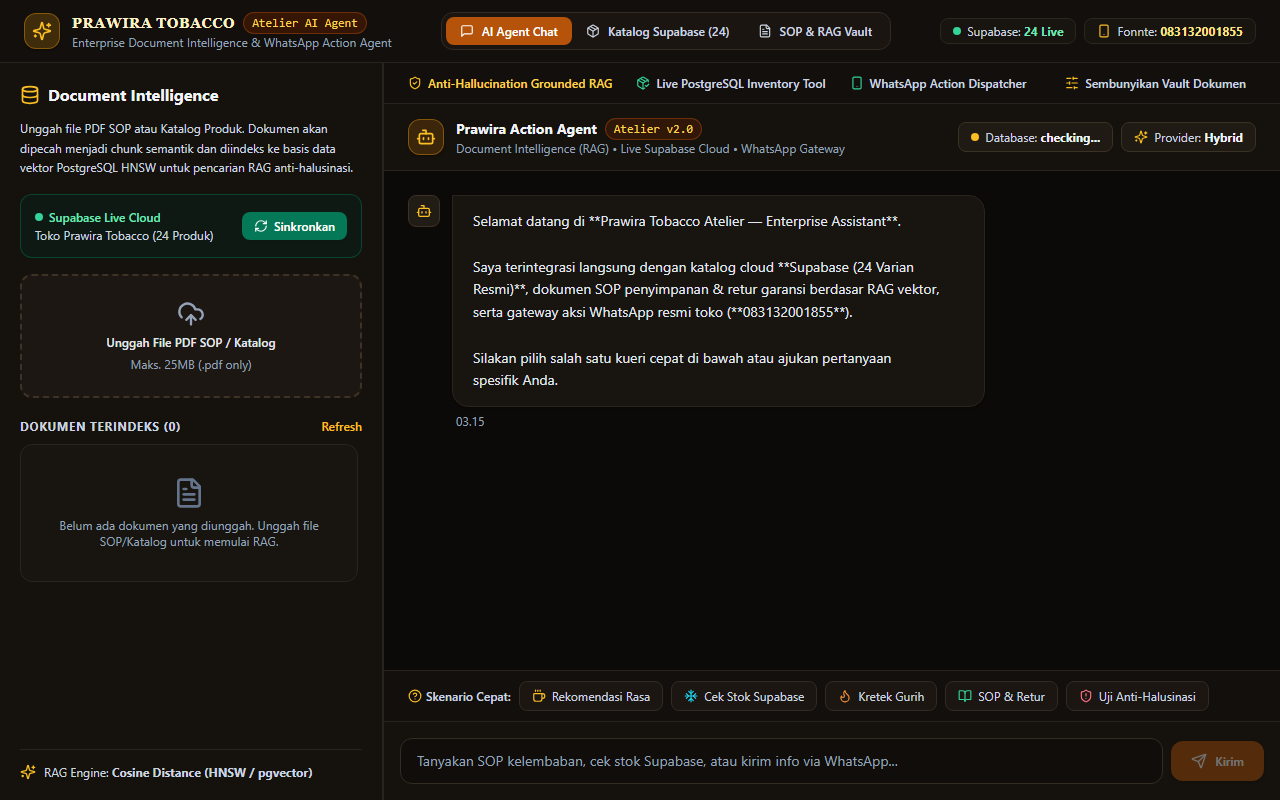
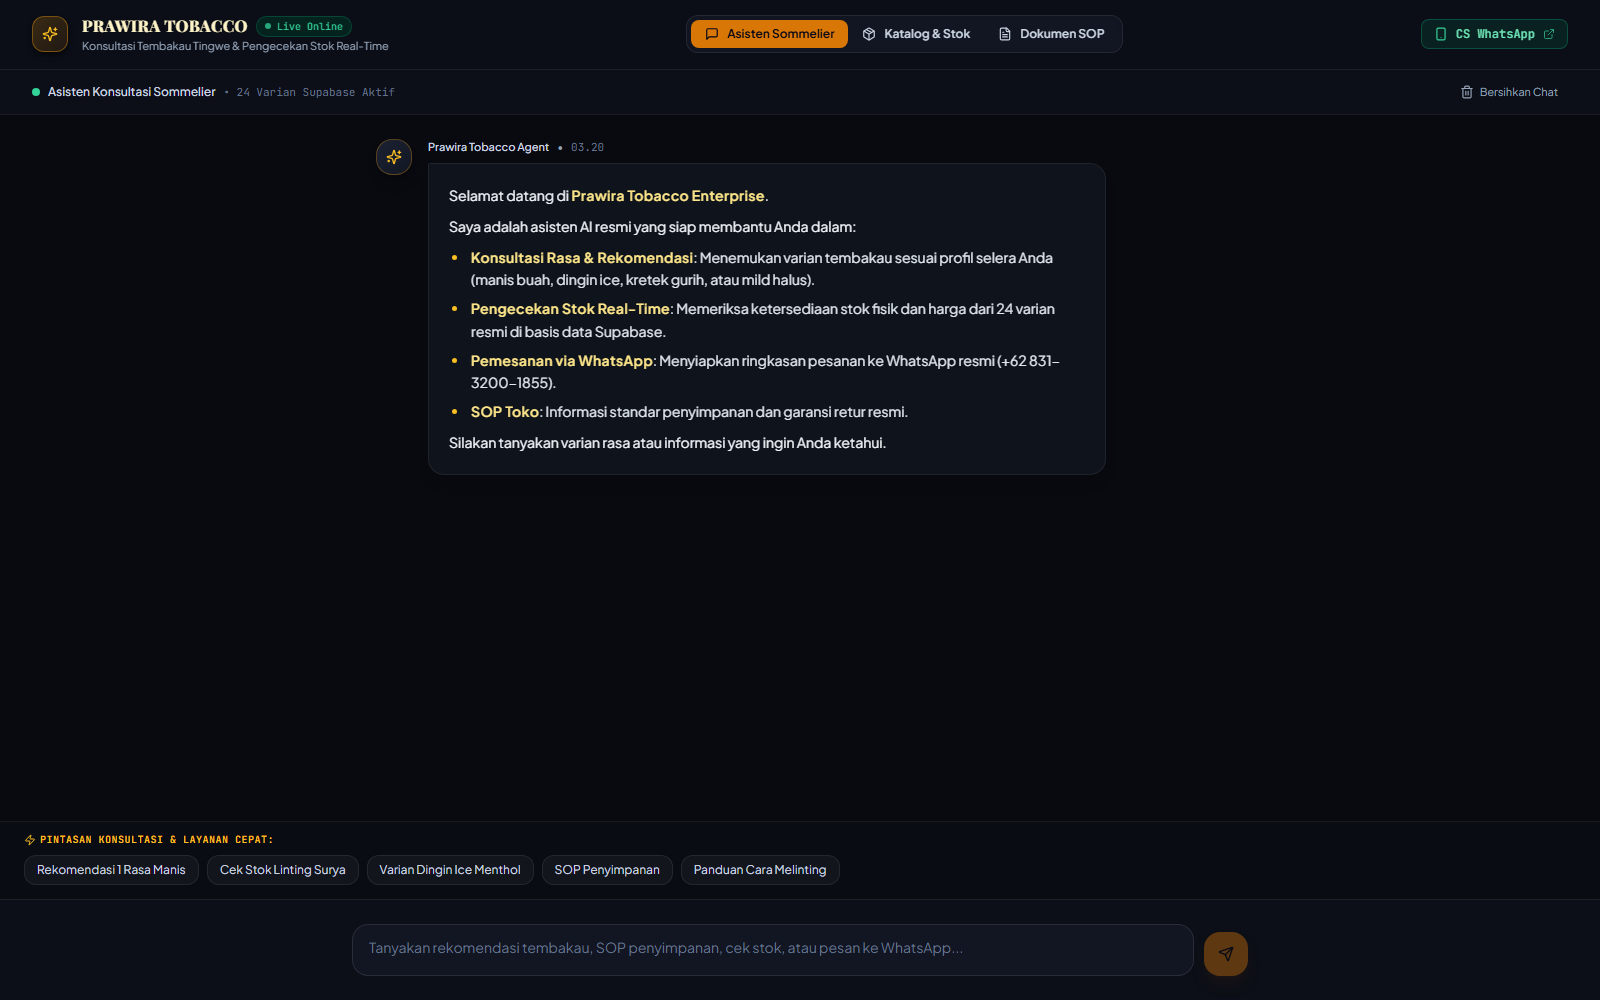
feat(projects): point enterprise document intelligence to prawira-agent-ai.vercel.app with live screenshot

diff --git a/src/data/projects.ts b/src/data/projects.ts
@@ -130,7 +130,7 @@ export async function generateDynamicQRIS(staticQris: string, amount: number) {
     role: 'AI Systems & Fullstack Engineer',
     timeframe: '2026 - Present',
     status: 'Production Architecture',
-    liveUrl: 'https://prawiratobacco.com/',
+    liveUrl: 'https://prawira-agent-ai.vercel.app/',
     summary: 'A production-grade enterprise RAG and autonomous action agent engineered for Prawira Tobacco. Combines high-dimensional semantic search over physical SOPs and product catalogs using PostgreSQL pgvector (HNSW cosine similarity), strict anti-hallucination confidence cutoff (>=0.70) with verbatim source citations, and autonomous tool calling that verifies live warehouse inventory in Supabase and formats actionable consultation handoffs directly into WhatsApp.',
     problemStatement: 'Retail and customer support staff at Prawira Tobacco faced significant operational drag: answering customer inquiries on tobacco moisture standards (65%-70% RH at 20-25°C), blending ratios, and return policies required manual lookup across multi-page PDF catalogs. Standard chatbots were passive and disconnected from real store operations, unable to verify physical warehouse stock levels or autonomously dispatch actionable order summaries to WhatsApp.',
     solutionDetails: [
@@ -252,12 +252,12 @@ export async function generateDynamicQRIS(staticQris: string, amount: number) {
       built:
         'Enterprise RAG engine on Next.js 15 & FastAPI with pgvector, anti-hallucination semantic search, warehouse stock verification, and autonomous WhatsApp concierge dispatch.',
       result:
-        'Applied to Prawira Tobacco retail operations. 100% grounded answers with source citations, <45ms vector similarity matching, and sub-100ms autonomous tool calls.',
+        'Live at prawira-agent-ai.vercel.app. 100% grounded answers with source citations, <45ms vector similarity matching, and sub-100ms autonomous tool calls.',
       stack: ['FastAPI', 'Next.js 15', 'PostgreSQL pgvector', 'LangChain', 'Gemini & GPT-4o', 'Tool Calling'],
       image: {
         src: '/prawira-ai-preview.png',
         alt: 'Prawira Tobacco Atelier AI Agent & Document Intelligence Dashboard',
-        urlLabel: 'prawiratobacco.com / atelier-agent',
+        urlLabel: 'prawira-agent-ai.vercel.app',
       },
       terminal: {
         file: 'agent_orchestrator.py',
